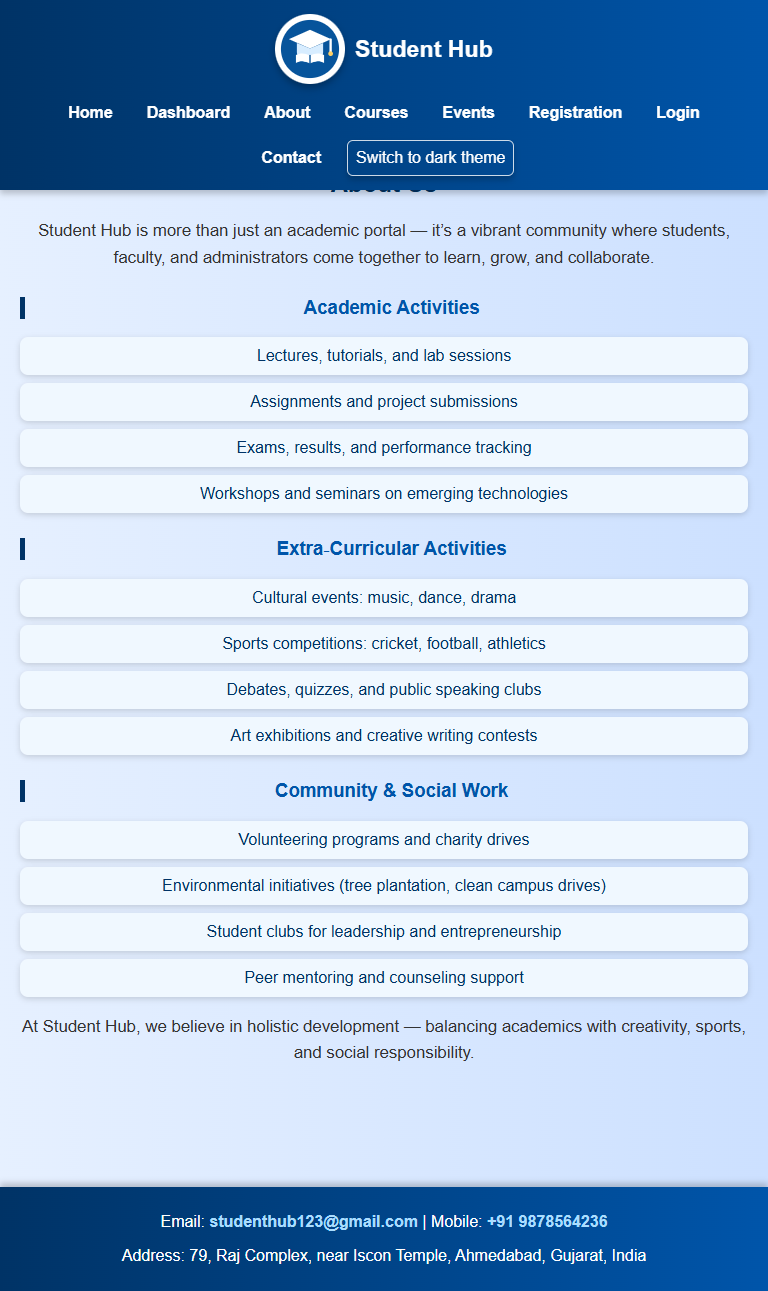
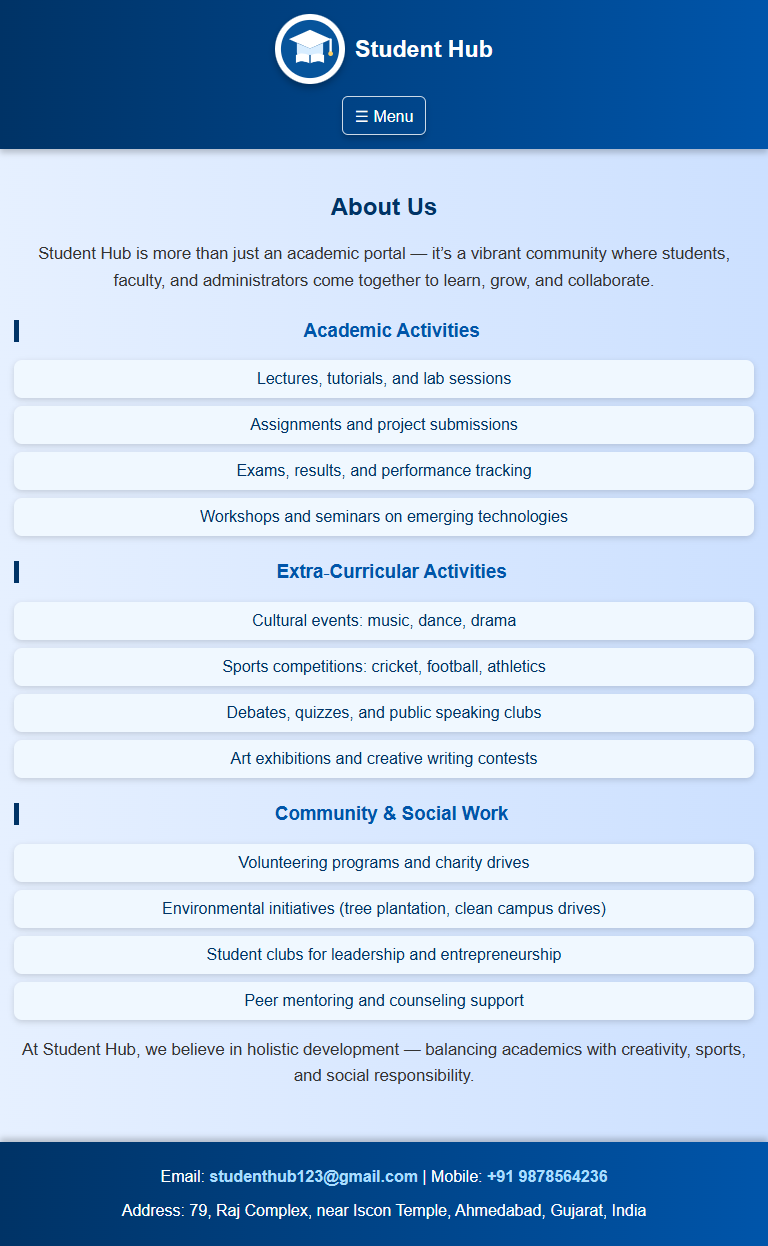
Align site header and footer responsively

diff --git a/practical.css b/practical.css
@@ -2,6 +2,12 @@
   box-sizing: border-box;
 }
 
+body {
+  min-height: 100vh;
+  display: flex;
+  flex-direction: column;
+}
+
 html {
   color-scheme: light;
 }
@@ -59,6 +65,7 @@ header {
 
 main {
   width: min(100%, 1200px);
+  flex: 1 0 auto;
   margin: 0 auto;
   padding: 24px 14px 32px;
 }
@@ -67,6 +74,8 @@ footer {
   box-sizing: border-box;
   width: 100%;
   position: static;
+  flex: 0 0 auto;
+  margin-top: auto;
 }
 
 .logo-container {
@@ -461,7 +470,7 @@ body.dark-theme .error-message {
   }
 }
 
-@media (min-width: 761px) {
+@media (min-width: 1024px) {
   header {
     position: fixed;
     top: 0;
